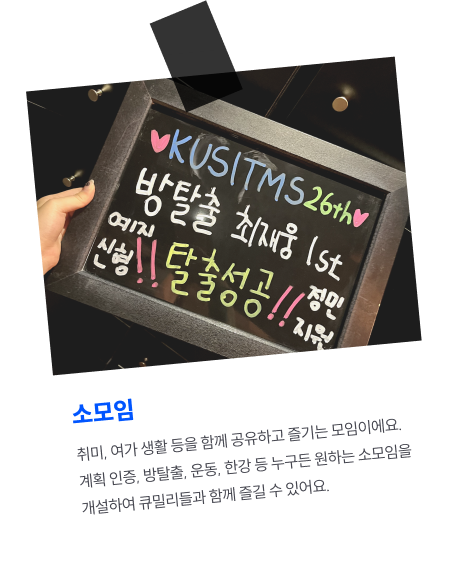
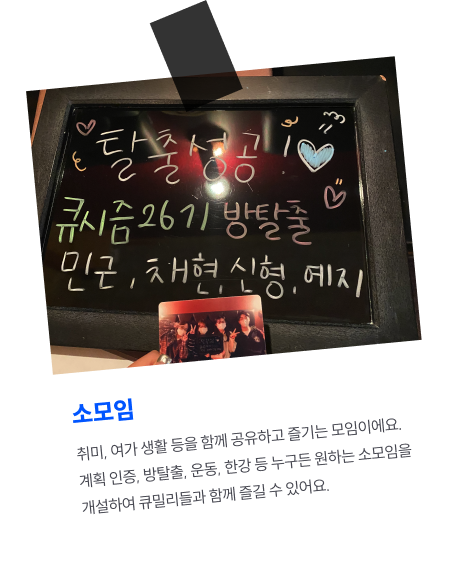
fix: 기본 번역 막음 / 랜딩 사진 변경

diff --git a/public/index.html b/public/index.html
@@ -1,12 +1,16 @@
 <!DOCTYPE html>
-<html lang="en">
+<html lang="en" translate="no">
   <head>
     <meta charset="utf-8" />
     <link rel="icon" href="%PUBLIC_URL%/kusitms.ico" />
     <meta name="viewport" content="width=device-width, initial-scale=1" />
-    <link href="https://cdn.jsdelivr.net/gh/sunn-us/SUIT/fonts/static/woff2/SUIT.css" rel="stylesheet">
-    <link href="https://unpkg.com/aos@2.3.1/dist/aos.css" rel="stylesheet">
+    <link
+      href="https://cdn.jsdelivr.net/gh/sunn-us/SUIT/fonts/static/woff2/SUIT.css"
+      rel="stylesheet"
+    />
+    <link href="https://unpkg.com/aos@2.3.1/dist/aos.css" rel="stylesheet" />
     <meta name="theme-color" content="#000000" />
+    <meta name="google" content="notranslate" />
     <meta
       name="description"
       content="Web site created using create-react-app"
